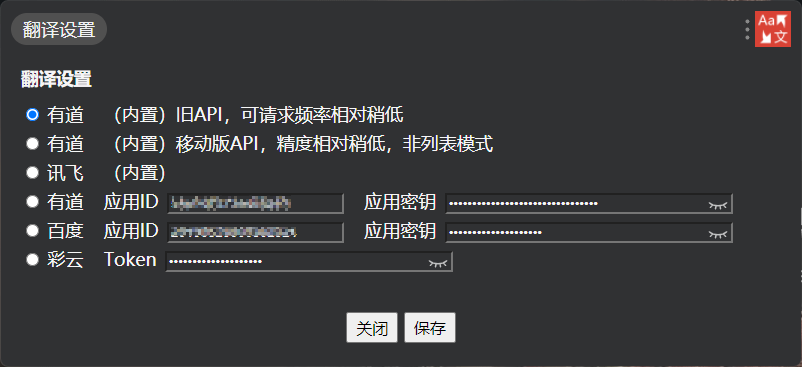
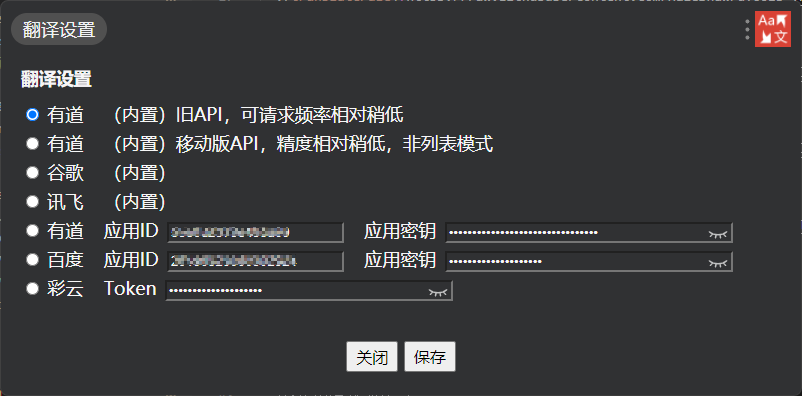
Add Google

diff --git a/assets/js/utils.js b/assets/js/utils.js
@@ -1,5 +1,8 @@
 const errorCodeOther = 9999;
 const errorCodeFrequently = 302;
+const formHeaders = {
+  "Content-Type": "application/x-www-form-urlencoded; charset=UTF-8",
+};
 
 function get(url) {
   return new Promise((resolve, reject) => {
@@ -24,53 +27,13 @@ function get(url) {
   });
 }
 
-function post(url, param) {
-  return new Promise((resolve, reject) => {
-    fetch(url, {
-      method: "POST",
-      headers: {
-        "Content-Type": "application/x-www-form-urlencoded;charset=UTF-8",
-      },
-      mode: "cors",
-      body: stringify(param),
-    })
-      .then(res => {
-        resolve(res.json());
-      })
-      .catch(e => {
-        console.error(e);
-        reject({ errorCode: errorCodeOther, message: e });
-      });
-  });
-}
-
-function caiYunPost(url, body, headers) {
+function post(url, body, headers) {
   return new Promise((resolve, reject) => {
     fetch(url, {
       method: "POST",
       headers: headers,
       mode: "cors",
-      body: JSON.stringify(body),
-    })
-      .then(res => {
-        resolve(res.json());
-      })
-      .catch(e => {
-        console.error(e);
-        reject({ errorCode: errorCodeOther, message: e });
-      });
-  });
-}
-
-function xunFeiPost(url, form) {
-  return new Promise((resolve, reject) => {
-    fetch(url, {
-      method: "POST",
-      headers: {
-        "Content-Type": "application/x-www-form-urlencoded; charset=UTF-8",
-      },
-      mode: "cors",
-      body: form,
+      body: body,
     })
       .then(res => {
         resolve(res.json());

diff --git a/assets/js/youDaoWeb.js b/assets/js/youDaoWeb.js
@@ -1,0 +1,43 @@
+async function lookUpYouDaoWeb(word) {
+  let data = [];
+  const api = options.youDaoWeb.api;
+
+  const salt = "" + new Date().getTime() + parseInt(10 * Math.random(), 10);
+  let key = "]BjuETDhU)zqSxf-=B#7m";
+  key = "Y2FYu%TNSbMCxc3t2u^XT";
+  const sign = CryptoJS.MD5("fanyideskweb" + word + salt + key).toString();
+  const headers = {
+    "Content-Type": "application/x-www-form-urlencoded",
+    Referer: "http://fanyi.youdao.com/",
+  };
+  let param = {
+    i: encodeURIComponent(word),
+    smartresult: "dict",
+    client: "fanyideskweb",
+    doctype: "json",
+    version: 2.1,
+    keyfrom: "fanyi.web",
+    action: "FY_BY_REALTlME",
+  };
+  let response = await post(api, stringify(param), formHeaders);
+  const errorCode = response?.errorCode;
+  if (errorCode == "0") {
+    let trans = response?.translateResult;
+    if (trans.length > 0) {
+      const phoneticEn = getPhoneticEn(word);
+      const phoneticUs = getPhoneticUs(word);
+      const tran = trans[0][0]?.tgt;
+      let dataTitle = `<span class="translation">${tran}</span><span>英</span>${phoneticEn}<span>美</span>${phoneticUs}`;
+      data.push({
+        title: dataTitle,
+        description: "基本释义",
+      });
+    }
+  } else {
+    data.push({
+      title: errTitle,
+      description: "翻译错误",
+    });
+  }
+  return data;
+}

diff --git a/index.html b/index.html
@@ -48,6 +48,20 @@
         </div>
         <div class="service">
           <label>
+            <input name="service" type="radio" value="google" />
+            谷歌
+          </label>
+          <span>（内置）</span>
+        </div>
+        <!-- <div class="service">
+          <label>
+            <input name="service" type="radio" value="youDaoWeb" />
+            有道
+          </label>
+          <span>（内置）网页版API</span>
+        </div> -->
+        <div class="service">
+          <label>
             <input name="service" type="radio" value="xunFei" />
             讯飞
           </label>
@@ -94,7 +108,9 @@
     <script src="assets/js/utils.js"></script>
     <script src="assets/js/crypto-js.js"></script>
     <script src="assets/js/youDaoOld.js"></script>
+    <script src="assets/js/youDaoWeb.js"></script>
     <script src="assets/js/youDaoWap.js"></script>
+    <script src="assets/js/google.js"></script>
     <script src="assets/js/youDao.js"></script>
     <script src="assets/js/baiDu.js"></script>
     <script src="assets/js/caiYun.js"></script>

diff --git a/assets/js/setting.js b/assets/js/setting.js
@@ -7,6 +7,18 @@ const options = {
     name: "有道移动版",
     api: "https://m.youdao.com/dict?le=eng&q=",
   },
+  youDaoWeb: {
+    name: "有道网页版",
+    api: "https://fanyi.youdao.com/translate?smartresult=dict&smartresult=rule",
+  },
+  google: {
+    name: "谷歌",
+    api: "https://translate.google.cn/translate_a/single?client=gtx&dt=t&dj=1&hl=zh-CN&sl=auto",
+  },
+  xunFei: {
+    name: "讯飞",
+    api: "https://saas.xfyun.cn/ai-application/trans/its",
+  },
   youDao: {
     name: "有道",
     api: "http://openapi.youdao.com/api",
@@ -19,14 +31,10 @@ const options = {
     name: "彩云小译",
     api: "http://api.interpreter.caiyunai.com/v1/translator",
   },
-  xunFei: {
-    name: "讯飞",
-    api: "https://saas.xfyun.cn/ai-application/trans/its",
-  },
 };
 
 // 设置窗口的高度。
-const settingHeight = 135 + 29 * 6;
+const settingHeight = 135 + 29 * 7;
 
 const errMsgEmptyApp = "应用ID或密钥不能为空！";
 

diff --git a/assets/js/google.js b/assets/js/google.js
@@ -1,0 +1,23 @@
+async function lookUpGoogle(word) {
+  let data = [];
+  const api = options.google.api;
+  const tl = isChinese(word) ? "en" : "zh-CN";
+  const url = api + "&tl=" + tl + "&q=" + word;
+  const response = await get(url);
+  let trans = response?.sentences;
+  if (trans && trans.length != 0) {
+    const phoneticEn = getPhoneticEn(word);
+    const phoneticUs = getPhoneticUs(word);
+    for (let i = 0; i < trans.length; i++) {
+      let dataTitle = `<span class="translation">${trans[i]["trans"]}</span>`;
+      if (i == 0) {
+        dataTitle += `<span>英</span>${phoneticEn}<span>美</span>${phoneticUs}`;
+      }
+      data.push({
+        title: dataTitle,
+        description: "基本释义",
+      });
+    }
+  }
+  return data;
+}

diff --git a/assets/js/caiYun.js b/assets/js/caiYun.js
@@ -29,7 +29,7 @@ async function lookUpCaiYun(word) {
     "content-type": "application/json",
     "x-authorization": "token " + token,
   };
-  let response = await caiYunPost(api, body, headers);
+  let response = await post(api, JSON.stringify(body), headers);
   let message = response?.message;
   if (!message) {
     const tran = response?.target;

diff --git a/assets/js/xunFei.js b/assets/js/xunFei.js
@@ -14,7 +14,7 @@ async function lookUpXunFei(word) {
   form.append("to", target);
   form.append("text", base64Str);
 
-  let response = await xunFeiPost(api, form);
+  let response = await post(api, form, formHeaders);
   let err = response.flag;
   if (err) {
     const tran = response?.data?.result?.trans_result?.dst;

diff --git a/assets/js/youDao.js b/assets/js/youDao.js
@@ -156,7 +156,7 @@ async function lookupYouDao(word) {
     signType: "v3",
     curtime: curtime,
   };
-  let response = await post(api, param);
+  let response = await post(api, stringify(param), formHeaders);
   const errorCode = response.errorCode;
   if (errorCode == "0") {
     const trans = response.translation;

diff --git a/assets/js/baiDu.js b/assets/js/baiDu.js
@@ -36,7 +36,7 @@ async function lookupBaiDu(word) {
     to: "auto",
     sign: sign,
   };
-  let response = await post(api, param);
+  let response = await post(api, stringify(param), formHeaders);
   const errorCode = response.error_code;
   if (!errorCode) {
     const trans = response.trans_result;

diff --git a/README.md b/README.md
@@ -61,11 +61,17 @@ uTools 插件 - 翻译
 
   不过调用频率不能太高，否则容易暂时被封禁。
 
-- 有道词典
+- 有道翻译
 
   <https://m.youdao.com>
 
   属于移动端网页API，精准度不是非常高。
+
+- 谷歌
+
+  <https://translate.google.cn>
+
+  翻译内容较少，仅有基本翻译。
 
 - 讯飞
 
